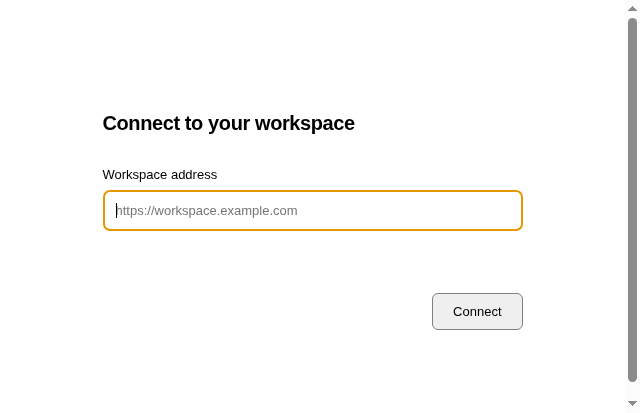
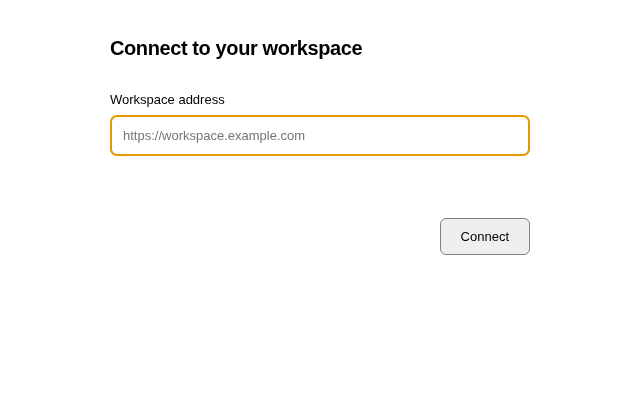
fix(desktop): reopen connection windows safely

diff --git a/packages/features/src/resolve.test.ts b/packages/features/src/resolve.test.ts
@@ -21,6 +21,14 @@ import {
 const base: FeatureContext = { deployment: "cloud", locks: {}, rollouts: {}, overrides: {} }
 const featureDocs = (feature: FeatureDefinition) => feature.docs
 
+test("remote desktop is self-hosted, opt-in, and can be disabled by its operator", () => {
+  assert.equal(resolveFeature("selfHostedDesktop", base).enabled, false)
+  const context: FeatureContext = { ...base, deployment: "self_hosted" }
+  assert.equal(resolveFeature("selfHostedDesktop", context).enabled, false)
+  assert.equal(resolveFeature("selfHostedDesktop", { ...context, locks: { selfHostedDesktop: true } }).enabled, true)
+  assert.equal(resolveFeature("selfHostedDesktop", { ...context, locks: { selfHostedDesktop: false } }).enabled, false)
+})
+
 test("without stored state, every feature follows its registry default", () => {
   for (const key of FEATURE_KEYS) {
     const resolved = resolveFeature(key, { ...base, deployment: FEATURES[key].deployments[0] })

diff --git a/docs/features/self-hosted-desktop/README.md b/docs/features/self-hosted-desktop/README.md
@@ -59,3 +59,5 @@ It follows P2, P3, C1 and C6: one title, one address field, direct connection
 action, and an actionable offline error. The task UI is the existing server UI.
 
 ![Connection window](connection.png)
+
+![Offline recovery](offline.png)
